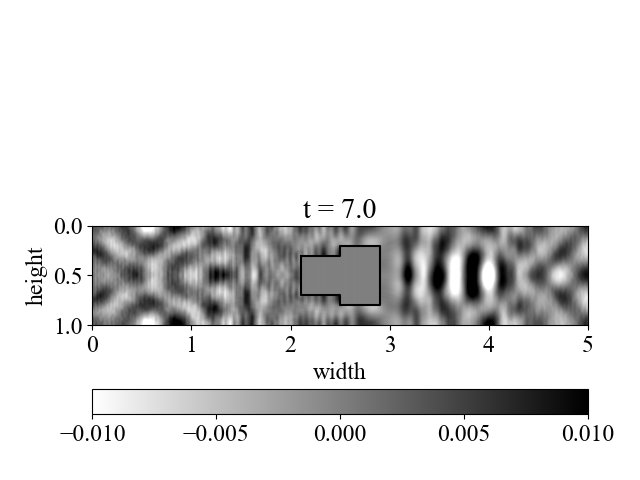
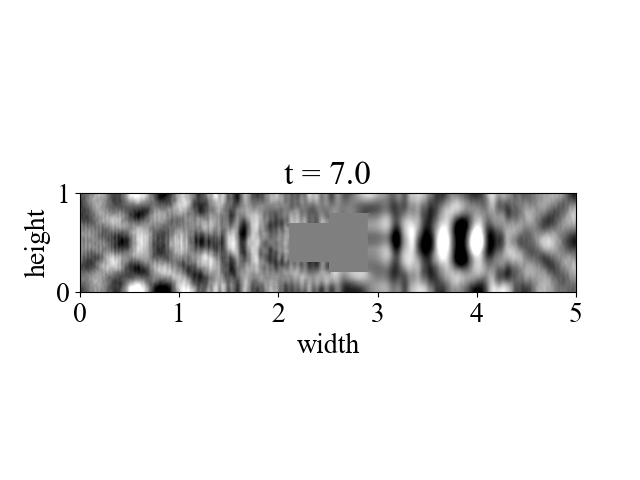
いろいろミスってたので修正

Changed region(s): [[0.0312, 0.3438, 0.9688, 0.9375], [0.0938, 0.875, 0.1875, 0.9375]]

diff --git a/simulatepropagation.py b/simulatepropagation.py
@@ -202,12 +202,12 @@ def make_gif(sim:SimulatePropagation,tend:float,save:bool=False,output:str=os.pa
     ims = []
     time_range = np.arange(0,tend+sim.dt,sim.dt)
     for _ in tqdm(time_range):
-        sim.update() #dtだけ更新
         im = ax.imshow(sim.u,cmap='magma',extent=[0,sim.width,sim.height,0],vmin=-0.01,vmax=0.01)
         title = ax.text(0.5, 1.01, f'Time = {round(sim.time,2)}',
                      ha='center', va='bottom',
                      transform=ax.transAxes, fontsize='large')
         ims.append([im,title])
+        sim.update() #dtだけ更新
     anim = animation.ArtistAnimation(fig,ims,interval=30)
     fig.colorbar(im,orientation='horizontal')
     if save:
@@ -221,12 +221,12 @@ def save_pngs(sim:SimulatePropagation,tend:float,step:float,output:str=os.path.j
     os.makedirs(out_dir,exist_ok=True)
     time_range = np.arange(0,tend+sim.dt,sim.dt)
     for i,_ in enumerate(time_range):
-        simulator.update()
-        if i*sim.dt % step == 0:
+        if round(i*sim.dt % step,3) == 0 or round(i*sim.dt % step,3) == step:
             fig , ax = plt.subplots()
             ax.imshow(sim.u,cmap='binary',vmin=-0.01,vmax=0.01,extent=[0,width,0,height])
             ax.set(title=f't = {round(sim.time,2)}',xlabel='width',ylabel='height')
             fig.savefig(os.path.join(out_dir,f'time_{round(sim.time,2)}_propagation.png'))
+        simulator.update()
     
 if __name__ == '__main__':
 
@@ -292,8 +292,8 @@ if __name__ == '__main__':
                                     )
     
     show_model(simulator)
-    make_gif(simulator,tend,save=False)
-    simulator.reset()
+    #make_gif(simulator,tend,save=False)
+    #simulator.reset()
     step = 0.5 #[sec]
     save_pngs(simulator,tend,step)
   

diff --git a/障害物_3.py b/障害物_3.py
@@ -1,0 +1,15 @@
+from simulatepropagation import SimulatePropagation , make_gif , show_model
+import numpy as np
+
+width = 5; height = 5; h = 0.01; dt = 0.005
+obstacle_x = [1,2,2,3,3,4,4,3,3,2,2,1,1]; obstacle_y = [2,2,1,1,2,2,3,3,4,4,3,3,2]
+obstacle_vec = np.array([[[(obstacle_x[i],obstacle_y[i]),(obstacle_x[i+1],obstacle_y[i+1])] for i in range(len(obstacle_x)-1)]])
+obstacle_grad = [['bottom','right','bottom','left','bottom','left','top','left','top','right','top','right']]
+distorted_vec = np.array([[(0,height/2+0.2),(0,height/2-0.2)]])
+freq = 5
+g = lambda x,y,t:np.cos(2*np.pi*freq*t) if t <= 3*(1/freq) else 0
+
+simulator = SimulatePropagation(width,height,h,dt,obstacle_vec,obstacle_grad,distorted_vec,g)
+show_model(simulator)
+make_gif(simulator,tend=10,save=False)
+
